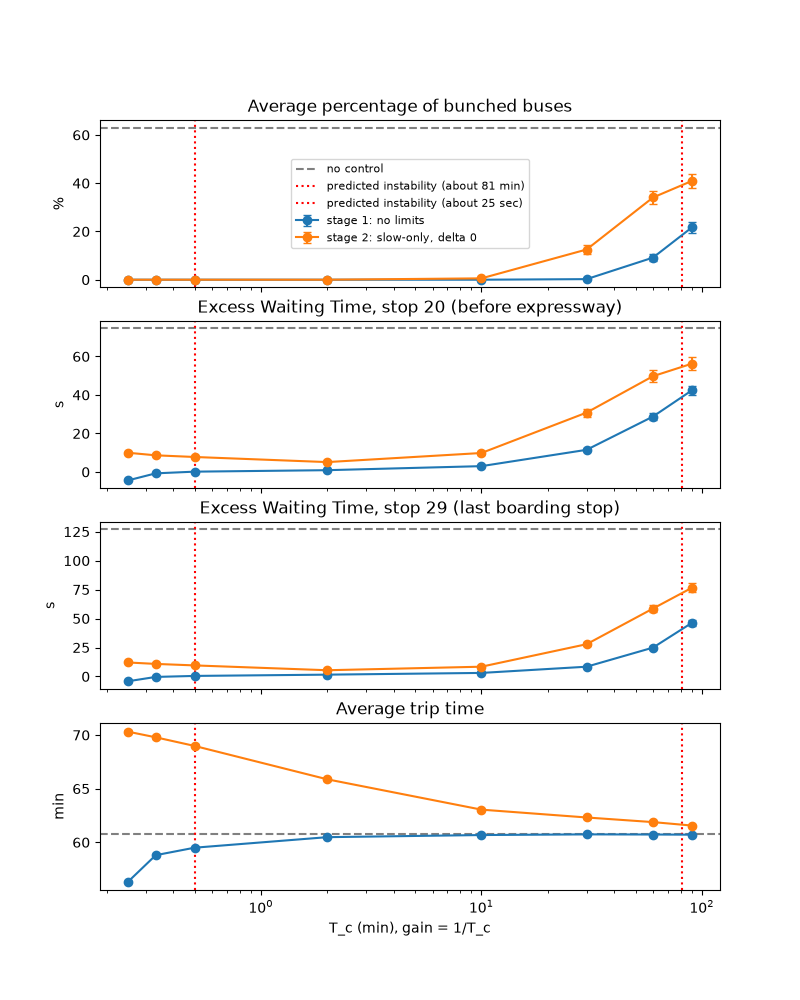
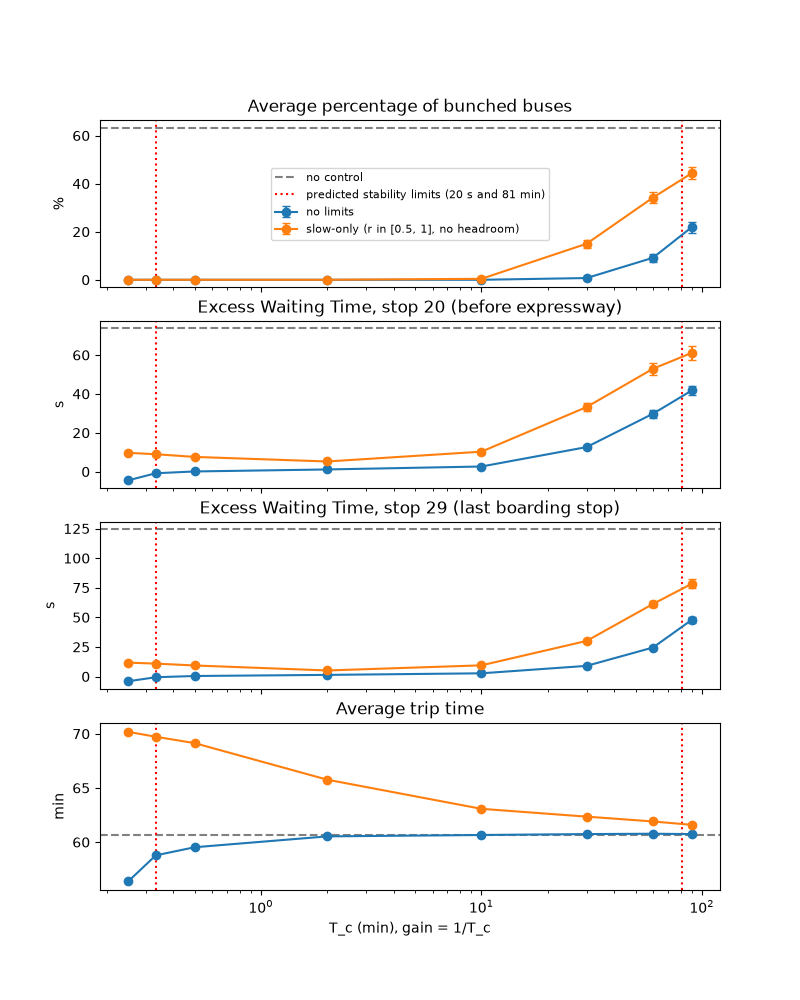
cleaned up files

diff --git a/experiments/controlAnalysis.py b/experiments/controlAnalysis.py
@@ -159,6 +159,25 @@ if __name__ == "__main__":
     print("GM low: gain can fall by this factor before the boarding edge. GM high: can rise by this factor;\n"
           "with tau = 0 its w180 is near the sampling limit pi/T, where e^{-sT/2} is a poor model of the refresh.")
 
+    # 3. guaranteed bound without diagonalising: Gershgorin discs of the full matrix beta B - alpha L
+    M = BETA * B - ALPHA * L
+    right_edges = np.diag(M) + np.abs(M).sum(axis=1) - np.abs(np.diag(M))
+    print(f"\nGershgorin: all discs in Re <= 0 if alpha >= beta, i.e. T_c <= {1 / BETA / 60:.0f} min; "
+          f"at T_c = {T_C / 60:.0f} min the largest right edge is {right_edges.max():.1e} (<= 0 means guaranteed)")
+
+    # 4. sampled model of the display refresh: the command is held for T, so each refresh multiplies
+    #    the mode's error by z; stable iff -1 < z < 1. z < 1 is exactly K > p (the lower limit).
+    Kf, pf, T = K[k], p[k], T_REFRESH
+    z = np.exp(pf * T) - Kf / pf * (np.exp(pf * T) - 1)
+    z_cont = np.exp(-(Kf - pf) * T)                       # the continuous pole s = -(K - p), sampled every T
+    K_max = pf * (np.exp(pf * T) + 1) / (np.exp(pf * T) - 1)   # z = -1
+    print(f"sampled pole (fastest mode): z = {z:.4f}, continuous equivalent {z_cont:.4f} "
+          f"(differ by {abs(z - z_cont) / z_cont:.1%}); (K - p)T = {(Kf - pf) * T:.3f} per refresh")
+    print(f"time scales: instability 1/p = {1 / pf / 60:.0f} min, correction 1/(K - p) = {1 / (Kf - pf) / 60:.1f} min, "
+          f"refresh {T} s")
+    print(f"upper limit (z = -1): K < {K_max:.3f} /s, i.e. T_c > {lam[k] / K_max:.1f} s "
+          f"(about 2T); sampled gain margin {K_max / Kf:.1f}")
+
     # Nyquist plot: one open-loop RHP pole, so stability needs one anticlockwise encirclement of -1
     fig, axs = plt.subplots(1, 2, figsize=(12, 5.5))
     w = np.logspace(-6, 1, 20000)

diff --git a/experiments/tc_sweep.py b/experiments/tc_sweep.py
@@ -7,12 +7,12 @@ from model.controlFunction import make_controller
 RUN_COUNT = 100
 
 # T_c (s): gain alpha = 1/T_c. Predicted stable window at a 10 s control period:
-# about 25 s (delay limit) to about 81 min (boarding-instability limit, T_c < 2/beta); see controlAnalysis.py.
+# 2 x control period = 20 s (sampled-update limit) to about 81 min (boarding-instability limit, T_c < 2/beta); see controlAnalysis.py.
 T_C = [15, 20, 30, 120, 600, 1800, 3600, 5400]
 
 STAGES = {
-    "stage 1: no limits": dict(),
-    "stage 2: slow-only, delta 0": dict(delta=0, r_max=1.0, r_min=0.5),
+    "no limits": dict(),
+    "slow-only (r in [0.5, 1], no headroom)": dict(delta=0, r_max=1.0, r_min=0.5),
 }
 
 if __name__ == "__main__":
@@ -30,8 +30,8 @@ if __name__ == "__main__":
             ax.errorbar(np.array(T_C) / 60, [r[key] for r in res], yerr=[r[key + "_ci"] for r in res],
                         marker='o', capsize=3, label=name)
         ax.axhline(baseline[key], color='grey', linestyle='--', label='no control')
-        ax.axvline(81, color='red', linestyle=':', label='predicted instability (about 81 min)')
-        ax.axvline(0.5, color='red', linestyle=':', label='predicted instability (about 25 sec)')
+        ax.axvline(81, color='red', linestyle=':', label='predicted stability limits (20 s and 81 min)')
+        ax.axvline(20 / 60, color='red', linestyle=':')
         ax.set(title=title, ylabel=unit)
     axs[0].legend(fontsize=8)
     axs[3].set(xscale='log', xlabel='T_c (min), gain = 1/T_c')

diff --git a/experiments/busBunchVisualisation.py b/experiments/busBunchVisualisation.py
@@ -2,10 +2,10 @@ import numpy as np
 import matplotlib.pyplot as plt
 from matplotlib.animation import FuncAnimation
 from model import FIGURES
-from model.helpers import distance, headway_stats
-from model.controlFunction import make_controller
+from model.helpers import distance
 from model.sim import simulate_run
 
+# one uncontrolled run; pass controller=make_controller(...) from model.controlFunction to animate a controlled one
 result = simulate_run(record=True, controller=None)
 snapshots = result["snapshots"]
 bunched_buses = result["bunched"]
@@ -13,8 +13,7 @@ bunched_buses = result["bunched"]
 print(f'route time of bus 0: {result["trip_times"].get(0)} s')
 print(f'percentage of buses bunched: {round((len(bunched_buses)/result["n_buses"])*100, 3)}')
 
-    # Animation
-
+# Animation
 fig, ax = plt.subplots(figsize=(12, 4))
 ax.set_xlabel("Distance along route (km)")
 ax.set_yticks([])  
@@ -85,6 +84,7 @@ ani = FuncAnimation(
     repeat=False
 )
 
+# uncomment to save the animation (this is how figures/bus_bunch_no_control.gif was made)
 # ani.save(filename=FIGURES / 'bus_bunch_no_control.gif', writer="pillow", fps=15)
 
 plt.show()

diff --git a/experiments/busBunch.py b/experiments/busBunch.py
@@ -7,8 +7,8 @@ from model.helpers import BEFORE_EXPRESSWAY_INDEX
 RUN_COUNT = 100
 PROFILE_RUNS = 200
 
-# boarding feedback: on = model (dwell grows with time since the last bus, Poisson boarding);
-# off = every bus dwells for the model's mean, so headway no longer affects dwell
+# noise sweep with the full model (boarding feedback on: dwell grows with time since the last bus);
+# passenger_noise=False would give every bus the mean dwell instead (used in the 2 x 2 below)
 FEEDBACK = {"boarding feedback on (model)": True}
 
 if __name__ == "__main__":

diff --git a/experiments/lag_check.py b/experiments/lag_check.py
@@ -5,7 +5,7 @@ RUN_COUNT = 200
 
 # first-order driver lag (s) between the displayed command and the applied speed fraction.
 # Predictions from controlAnalysis.py (fastest mode, T_c = 10 min): phase margin 81 / 70 / 27 deg
-# at 0 / 30 / 300 s, and the Routh-Hurwitz limit tau < 1/p, about 20 min, is reached at 1200 s.
+# at 0 / 30 / 300 s, and the stability limit tau < 1/p, about 20 min, is reached at 1200 s.
 LAGS = [0, 30, 300, 1200]
 
 CONTROLLERS = {

diff --git a/experiments/delta_sweep.py b/experiments/delta_sweep.py
@@ -11,7 +11,7 @@ RUN_COUNT = 200
 DELTA = [0.0, 0.02, 0.04, 0.06, 0.08, 0.10]
 
 # slow-only controller at the gain chosen from the T_c sweep (T_c = 10 min: near-zero bunching
-# for about +2.5 min of trip time); add entries here to compare other gains
+# for about +2.3 min of trip time); add entries here to compare other gains
 GAINS = {"T_c = 10 min": 600}
 SLOW_ONLY = dict(r_max=1.0, r_min=0.5)
 

diff --git a/docs/learning_log.md b/docs/learning_log.md
@@ -18,11 +18,11 @@ A first-order lag 1/(τs + 1) approaches its target gradually, never overshoots,
 ### Stabilising an open-loop-unstable plant needs a minimum gain as well as a maximum
 *Worked out through discussion, building on Daganzo and Pilachowski (2011).*
 
-Per mode, the plant is 1/(s − β_θ), with a right-half-plane pole set by the boarding rate β. The controller has to supply enough negative feedback to beat it: α > β/2, which is T_c below about 81 min. The update delay caps the gain from above. So the controller has a stability window, not just an upper limit.
+Per mode, the plant is 1/(s − β_θ), with a right-half-plane pole set by the boarding rate β. The controller has to supply enough negative feedback to beat it: α > β/2, which is T_c below about 81 min. The 10s update interval caps the gain from above. So the controller has a stability window, not just an upper limit.
 
 In Nyquist terms, with one open-loop RHP pole, the plot must encircle −1 once anticlockwise; avoiding it is not enough. Leaving out Daganzo and Pilachowski's cancellation term is what made this lower edge appear. With that term, their law is stable for any positive gain.
 
-The upper edge, at 2T < T_c (about 20 s at a 10 s display refresh), is the same as their condition αΔt < 0.5: the sampled pole is z = 1 − KT. I reproduced it for my setup and then checked it against their eigenvalues (eq. 25).
+The upper edge comes from a discrete-time analysis of the 10 s display refresh: each refresh multiplies a mode's error by z ≈ 1 − (K − p)T, and stability needs z > −1, so T_c > 2T ≈ 20 s. It agrees with Daganzo and Pilachowski's condition αΔt < 0.5.
 
 ### Diagonalising a platoon: the graph Laplacian
 *Worked through myself, following Lestas and Vinnicombe (2007, section III), with help from Claude.*
@@ -34,11 +34,13 @@ For the spring law on an open chain with "ghost" end buses, I:
 3. showed its characteristic roots lie on the unit circle, because their product is 1;
 4. treated the ghost buses as mirror boundary conditions (y₀ = y₁ and y_{N+1} = y_N).
 
-That gives λ_k = 2 − 2cos(kπ/N), with mode shapes cos((n − ½)kπ/N). I also checked the repeated-root cases: λ = 0 is the "all buses equally late" mode, λ = 4 is just outside the range of n for which buses are indexed.
+That gives λ_k = 2 − 2cos(kπ/N), with mode shapes cos((n − ½)kπ/N). I also checked the repeated-root cases: λ = 0 is the "all buses equally late" mode, λ = 4 is just outside the range of k for which modes are indexed.
 
 - **Lesson:** a shift-invariant system is diagonalised by waves (e^{inθ}), in the same way an LTI system is diagonalised by e^{st}. Boundaries decide which waves fit.
 
 ### Routh-Hurwitz
+
+### Continuous and discrete analysis
 
 
 ### Saturation: slow-only control and headroom
@@ -54,7 +56,7 @@ Just past the 81 min edge, errors grow, but slowly: at T_c = 90 min the fastest 
 
 ## Stochastic modelling and statistics
 
-- **Zero-mean noise is not neutral for a quadratic metric.** E[(h + Δ)²] = h² + Var(Δ). Overtaking (re-sorting arrivals) removes some of that increase. This explained why excess wait time stayed flat across the expressway: independent noise split up bunched pairs.
+- **Zero-mean noise is not neutral for a quadratic metric.** E[(h + Δ)²] = h² + Var(Δ). Overtaking (re-sorting arrivals) removes some of that increase, explaining why excess wait time stayed flat across the expressway for previous experiments with a higher expressway speed sd.
 - **Modelling assumptions shape results.** That un-bunching only happens because each bus draws its own expressway speed. Real buses close together share traffic. This led me to reconsider what the noise standard deviation means: differences between buses, not day-to-day variation.
 - **Truncating a distribution can change its mean and its spread.** Bounds of [15, 45] km/h raised the mean as noise grew. Bounds at ±1σ cut the actual sd to 0.54σ. Symmetric ±3σ bounds fixed both.
 - **Independent samples.** Buses within one run share a history, so confidence intervals must use one value per run. Pooling every trip would have made them about 5× too narrow.
